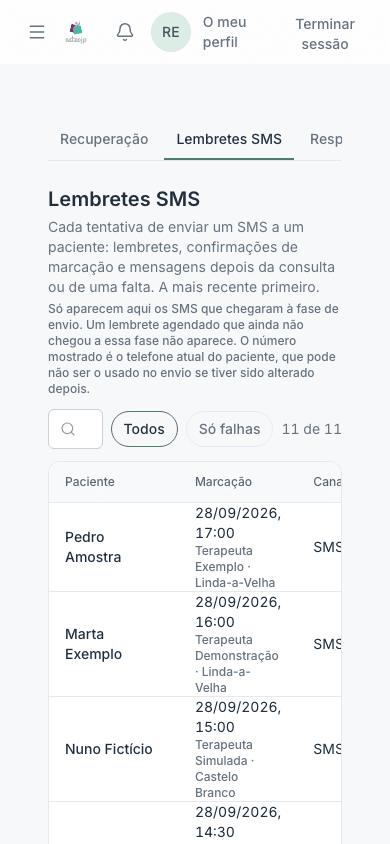
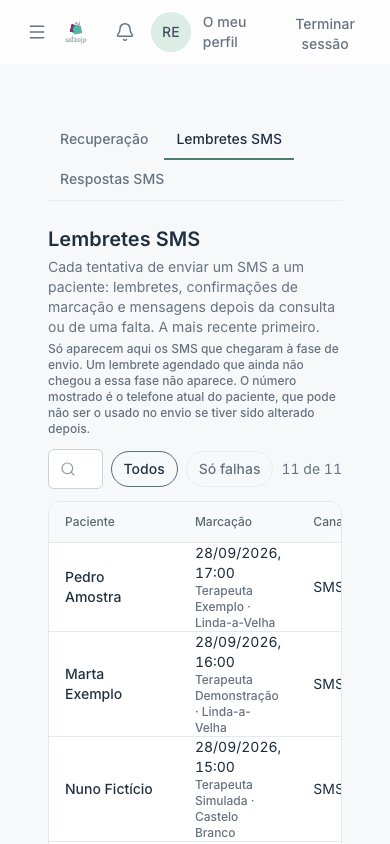
fix(T5 review r3): the Comunicacoes tabs wrap on a phone, and the nav comment says only what is true of /reminders/review
Round 3 review of the T5 guide findings.

MINOR, the tab bar at 390px: with Respostas SMS added the bar no longer fit a
phone; it scrolled sideways, showed the new tab as "Resp", and nothing said it
scrolled. CommsNav now wraps (flex-wrap) instead of scrolling, so every tab the
role may open is whole on screen at every width. guide-findings.spec.ts asserts
it at 390 and 360 by geometry (each tab's box inside the bar, the bar and the
page with nothing to scroll to). Seeded red arm: with the old class back, both
new tests fail on "Respostas SMS ends inside the bar". The six phone captures
of Recuperacao, Lembretes SMS and Respostas SMS (reception and owner) are
retaken on the purple lane, with the desktop pair where its data moved.

MINOR, nav-items.ts: the activePrefixes comment no longer says /reminders/review
is named by links, revalidatePath and e2e specs. Nothing linked it before F4, no
revalidatePath names it, and no spec did before this branch.

Claude-Session: https://claude.ai/code/session_01RQD8Myf8RmxatUoWPcJs4p

diff --git a/apps/web/e2e/guide-findings.spec.ts b/apps/web/e2e/guide-findings.spec.ts
@@ -6,7 +6,8 @@
  *       app/recuperacao had no layout.tsx. The guide told staff to leave it with
  *       the browser's back button.
  *   F4  Reception may use the SMS reply review queue (/reminders/review) and
- *       nothing linked to it. It is now the Comunicações tab "Respostas SMS".
+ *       nothing linked to it. It is now the Comunicações tab "Respostas SMS",
+ *       whole on screen at phone widths too (390 and 360).
  *   F5  A therapist read "Horários da equipa" above their own single card, and a
  *       Marcações subtitle promising all their patients' bookings.
  *
@@ -22,7 +23,8 @@
  * THE SHELL IS ASSERTED BY ITS OWN LANDMARKS, not by a page heading: the
  * heading rendered before F1 too. The sidebar is the "Navegação principal"
  * navigation, and the top bar carries the Notificações bell, both from
- * components/app-shell.tsx. Desktop Chrome, so the sidebar is the desktop rail.
+ * components/app-shell.tsx. Desktop Chrome, so the sidebar is the desktop rail;
+ * the two phone-width F4 tests check the tab bar only, never the shell.
  */
 import { test, expect, type Page } from "@playwright/test";
 import { STORAGE } from "./fixtures";
@@ -78,6 +80,55 @@ test.describe("reception", () => {
       page.getByRole("navigation", { name: TABS }).getByRole("link", { name: "Respostas SMS" }),
     ).toHaveAttribute("aria-current", "page");
   });
+
+  /**
+   * F4 ON A PHONE. The two tests above run at the desktop size, where the tab
+   * bar has room. At 390px the three tabs did not fit: the bar scrolled
+   * sideways, the new tab showed as "Resp", and nothing said it scrolled
+   * (review round 3, the guide's own phone captures). The bar wraps now, so
+   * every tab is whole on screen. What is asserted is that, and not a class
+   * name: each tab's box lies inside the bar's box, and the bar has nothing
+   * hidden to scroll to (scrollWidth <= clientWidth). The bar that scrolled
+   * fails both.
+   */
+  for (const [name, viewport] of [
+    ["390", { width: 390, height: 844 }],
+    ["360", { width: 360, height: 780 }],
+  ] as const) {
+    test(`F4 at ${name}px: every Comunicações tab, Respostas SMS included, is whole on screen`, async ({ page }) => {
+      await page.setViewportSize(viewport);
+      await page.goto("/recuperacao");
+      await expect(page.getByRole("heading", { name: "Recuperação de utentes" })).toBeVisible();
+
+      const tabs = page.getByRole("navigation", { name: TABS });
+      await expect(tabs).toBeVisible();
+      const bar = await tabs.boundingBox();
+      expect(bar, "the tab bar has a box").not.toBeNull();
+
+      for (const label of ["Recuperação", "Lembretes SMS", "Respostas SMS"]) {
+        const link = tabs.getByRole("link", { name: label, exact: true });
+        await expect(link).toBeVisible();
+        const box = await link.boundingBox();
+        expect(box, `${label} has a box`).not.toBeNull();
+        if (!bar || !box) continue;
+        expect(box.x, `${label} starts inside the bar`).toBeGreaterThanOrEqual(bar.x - 0.5);
+        expect(box.x + box.width, `${label} ends inside the bar`).toBeLessThanOrEqual(bar.x + bar.width + 0.5);
+        expect(box.x + box.width, `${label} ends inside the viewport`).toBeLessThanOrEqual(viewport.width + 0.5);
+      }
+
+      const fit = await tabs.evaluate((el) => ({ scroll: el.scrollWidth, client: el.clientWidth }));
+      expect(fit.scroll, `the tab bar hides nothing sideways (${fit.scroll} vs ${fit.client})`).toBeLessThanOrEqual(
+        fit.client,
+      );
+      const doc = await page.evaluate(() => ({
+        scroll: document.documentElement.scrollWidth,
+        client: document.documentElement.clientWidth,
+      }));
+      expect(doc.scroll, `the page does not scroll sideways (${doc.scroll} vs ${doc.client})`).toBeLessThanOrEqual(
+        doc.client,
+      );
+    });
+  }
 });
 
 test.describe("therapist", () => {

diff --git a/apps/web/app/comunicacoes/comms-nav.client.tsx b/apps/web/app/comunicacoes/comms-nav.client.tsx
@@ -17,12 +17,20 @@ const cx = (...c: Array<string | false | null | undefined>): string =>
  * The items arrive already filtered to what the viewer may open
  * (`commsSectionsForRole`), so this component offers no tab its route refuses.
  * It decides nothing about access.
+ *
+ * THE TABS WRAP, THEY DO NOT SCROLL. Until T5 this bar scrolled sideways like the
+ * admin one (overflow-x-auto). With three sections (T5 F4 added Respostas SMS)
+ * it no longer fits a 390px phone, and the third tab showed as "Resp" with
+ * nothing on screen saying the bar scrolls. Wrapping puts every tab the role may
+ * open on screen at every width, on a second row when the first is full, the
+ * way the page toolbars wrap. Each label stays on one line (whitespace-nowrap).
+ * e2e/guide-findings.spec.ts asserts it at 390 and 360.
  */
 export function CommsNav({ items, label }: { items: CommsNavItem[]; label: string }) {
   const pathname = usePathname();
 
   return (
-    <nav aria-label={label} className="flex gap-1 overflow-x-auto border-b border-v2-border">
+    <nav aria-label={label} className="flex flex-wrap gap-x-1 border-b border-v2-border">
       {items.map((item) => {
         const active = pathname === item.href || pathname.startsWith(`${item.href}/`);
         return (

diff --git a/apps/web/lib/nav/nav-items.ts b/apps/web/lib/nav/nav-items.ts
@@ -9,8 +9,9 @@ export type NavItem = {
   /**
    * COMMS-01: other URL prefixes that light this entry as active. Used by a
    * GROUP entry whose sections keep their own routes (Comunicações holds
-   * /recuperacao and /reminders/review, which predate the group and are named by
-   * links, revalidatePath and e2e specs). Absent for every ordinary entry.
+   * /recuperacao, which predates the group and is named by links, revalidatePath
+   * and e2e specs, and /reminders/review, which the page and its tests name).
+   * Absent for every ordinary entry.
    */
   activePrefixes?: string[];
 };
